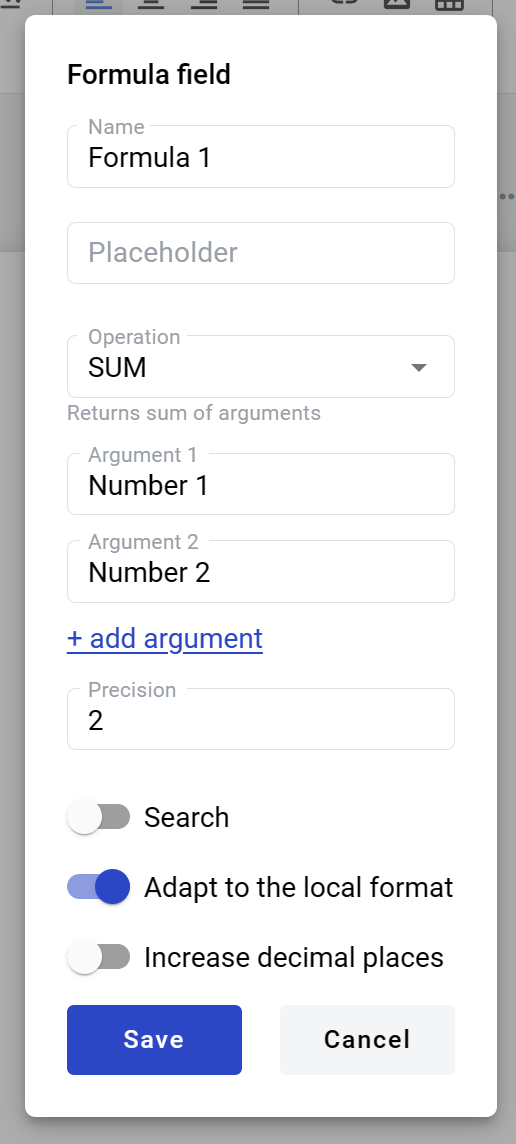
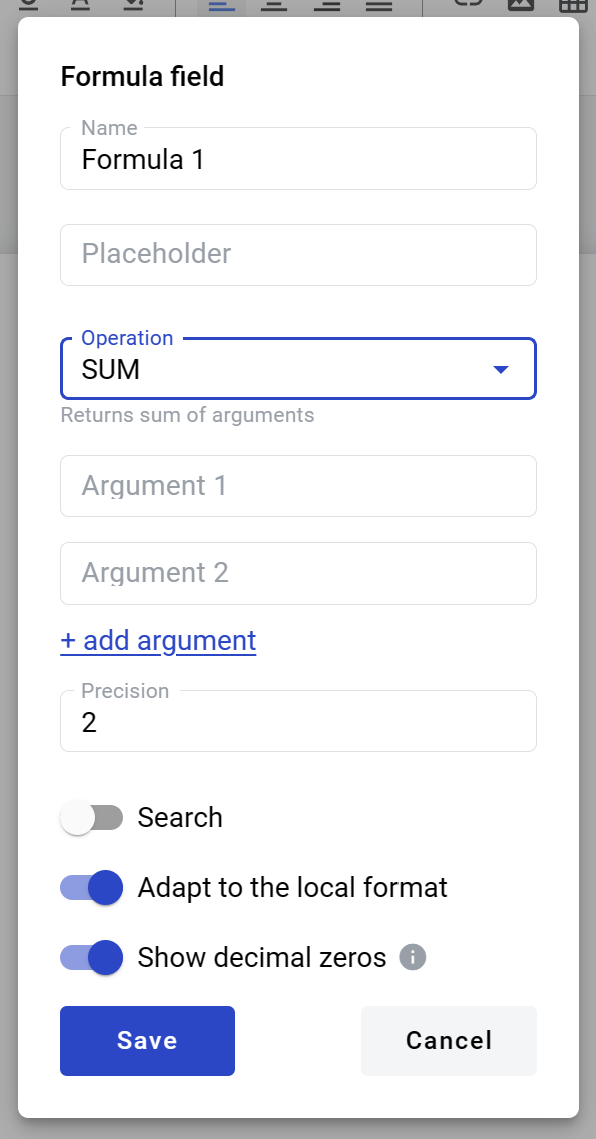
some fixes (#186)
* some fixes

* some more

* and even more

diff --git a/docs/source/pages/howToWorkWithPlatform/mainApplication/templateList/templateManagement/documentManagementOnTemplate/fields/currency/currency.rst b/docs/source/pages/howToWorkWithPlatform/mainApplication/templateList/templateManagement/documentManagementOnTemplate/fields/currency/currency.rst
@@ -28,9 +28,8 @@ How to add currency field to template
 
 .. note:: Numbers in envelope view will be formatted according to standard of a region which is selected on User profile page. You can see formatting example under region selector on that page. Numbers in printable versions of the documents will always be formatted according to platform region standard.
 
-9. Increase decimal places - if enabled, zeroes will be added to fill all empty decimal places of field value
-10. Min - minimal value allowed in field (no limit is applied if left empty)
-11. Max - maximal value allowed in field (no limit is applied if left empty)
+9. Min - minimal value allowed in field (no limit is applied if left empty)
+10. Max - maximal value allowed in field (no limit is applied if left empty)
 
 .. warning:: Maximum allowed character count for currency field is 15 (according to `IEEE 754 <http://https://en.wikipedia.org/wiki/IEEE_754>`_). Please note this includes decimal places. This means that if you insert a value 999999999999999 or more characters, it will be converted to 9999999999999.00.
 

diff --git a/docs/source/pages/apiIntegration/methods/templateCreation.rst b/docs/source/pages/apiIntegration/methods/templateCreation.rst
@@ -36,7 +36,7 @@ Template creation
 	<documents>
 		<document id=\"4a61f258-fd9d-406c-b47e-81c90d4e5c47\">
 			<info>
-				<title>New Document</title>
+				<title>New document</title>
 			</info>
 			<body>
 				<div class=\"editor-div\">Structured document</div>
@@ -77,7 +77,7 @@ Depending on your needs, you can add different types of fields `template fields 
         <documents>
             <document id=\"4a61f258-fd9d-406c-b47e-81c90d4e5c47\">
                 <info>
-                    <title>New Document</title>
+                    <title>New document</title>
                 </info>
                 <body>
                     <div class=\"editor-div\">Structured document</div>

diff --git a/docs/source/pages/howToWorkWithPlatform/adminApplication/permissionsList/permissionsList.rst b/docs/source/pages/howToWorkWithPlatform/adminApplication/permissionsList/permissionsList.rst
@@ -112,7 +112,7 @@ Mailbox permissions
    * - envelopeListView
      - 2004
      - Allows to view envelopes list and elements on dashboard which related to envelope list (counters and wwaiting for you block)
-   * - envelopeListView
+   * - envelopeDelegate
      - 2012
      - Allows to delegate envelopes and configure automatic forwarding rule for mailbox
    * - categoryManage

diff --git a/docs/source/pages/apiIntegration/templateEnvelopeStructure/templateStructure.rst b/docs/source/pages/apiIntegration/templateEnvelopeStructure/templateStructure.rst
@@ -69,7 +69,7 @@ Template consists of two blocks:
         <documents>
             <document id=\"ef247568-559a-4ec1-9ecc-6b44c9fb8215\">
                 <info>
-                    <title>New Document</title>
+                    <title>New document</title>
                 </info>
                 <body>
                     <div class=\"editor-div\">
